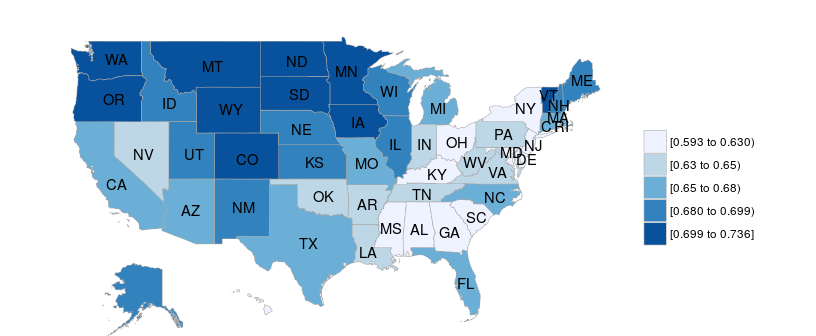
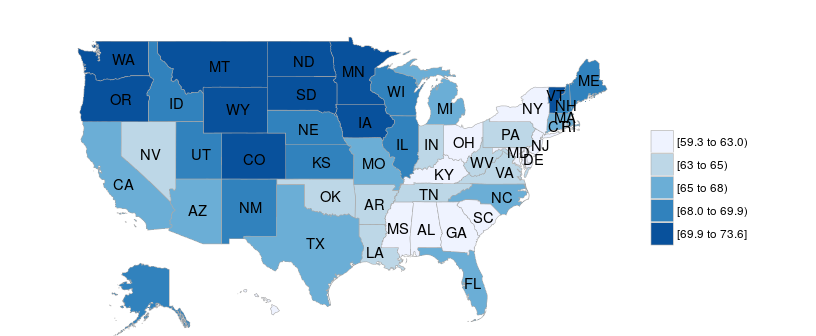
Explained difference in age-adjustment. Converted pervalance values to percentages to match original figure.

diff --git a/sleep_duration.md b/sleep_duration.md
@@ -40,7 +40,7 @@ Set `knitr` rendering options and the default number of digits for printing.
 
 
 ```r
-opts_chunk$set(tidy=FALSE, cache=TRUE)
+opts_chunk$set(tidy=FALSE, cache=FALSE)
 options(digits=4)
 ```
 
@@ -88,19 +88,26 @@ sql <- "SELECT X_STATE AS StateNum, X_AGE80 AS Age,
         ORDER BY X_STATE, X_AGE80;"
 
 rs <- dbGetQuery(con, sql)
+dbDisconnect(con)
+```
+
+```
+## [1] TRUE
 ```
 
 ## Calculate prevalence
 
-Calculate prevalence by age for each state, then calculate the mean of those 
-means by state. This will become the value of the shading in the choropleth.
+Calculate percent prevalence by age for each state, then calculate the mean of
+those prevalences by state. This is a crude form of "age-adjustment". These 
+means will become the value of the shading in the choropleth.
 
 
 ```r
 rs %>% group_by(Age) %>% 
-    mutate(Prevalence=HealthySleepers/Respondents) -> sleepers
+    mutate(Prevalence = 100 * (HealthySleepers/Respondents)) -> sleepers
 sleepers %>% select(StateNum, Age, Prevalence) %>% 
-    group_by(StateNum) %>% summarize(value=mean(Prevalence)) -> sleep.state
+    group_by(StateNum) %>% 
+    summarize(value=mean(Prevalence)) -> sleep.state
 ```
 
 ## Get state data
@@ -140,5 +147,12 @@ state_choropleth(map.values, num_colors = 5)
 ![](sleep_duration_files/figure-html/unnamed-chunk-7-1.png)\
 
 The shading and bins are not exactly the same as the figure in the journal
-article, but they are very similar. We probably did not "age-adjust" in the 
-same way.
+article, but they are very similar. 
+
+We did *not* "age-adjust" in the same way that the authors described:
+
+> The age-adjusted prevalence and 95% confidence interval (CI) of the recommended healthy sleep duration (≥7 hours) was calculated by state and selected characteristics, and adjusted to the 2000 projected U.S. population aged ≥18 years.
+
+We mearly took the mean of the prevelance of each age level by state, 
+without taking into account any other "selected characteristics" or 
+the "2000 projected U.S. population".
